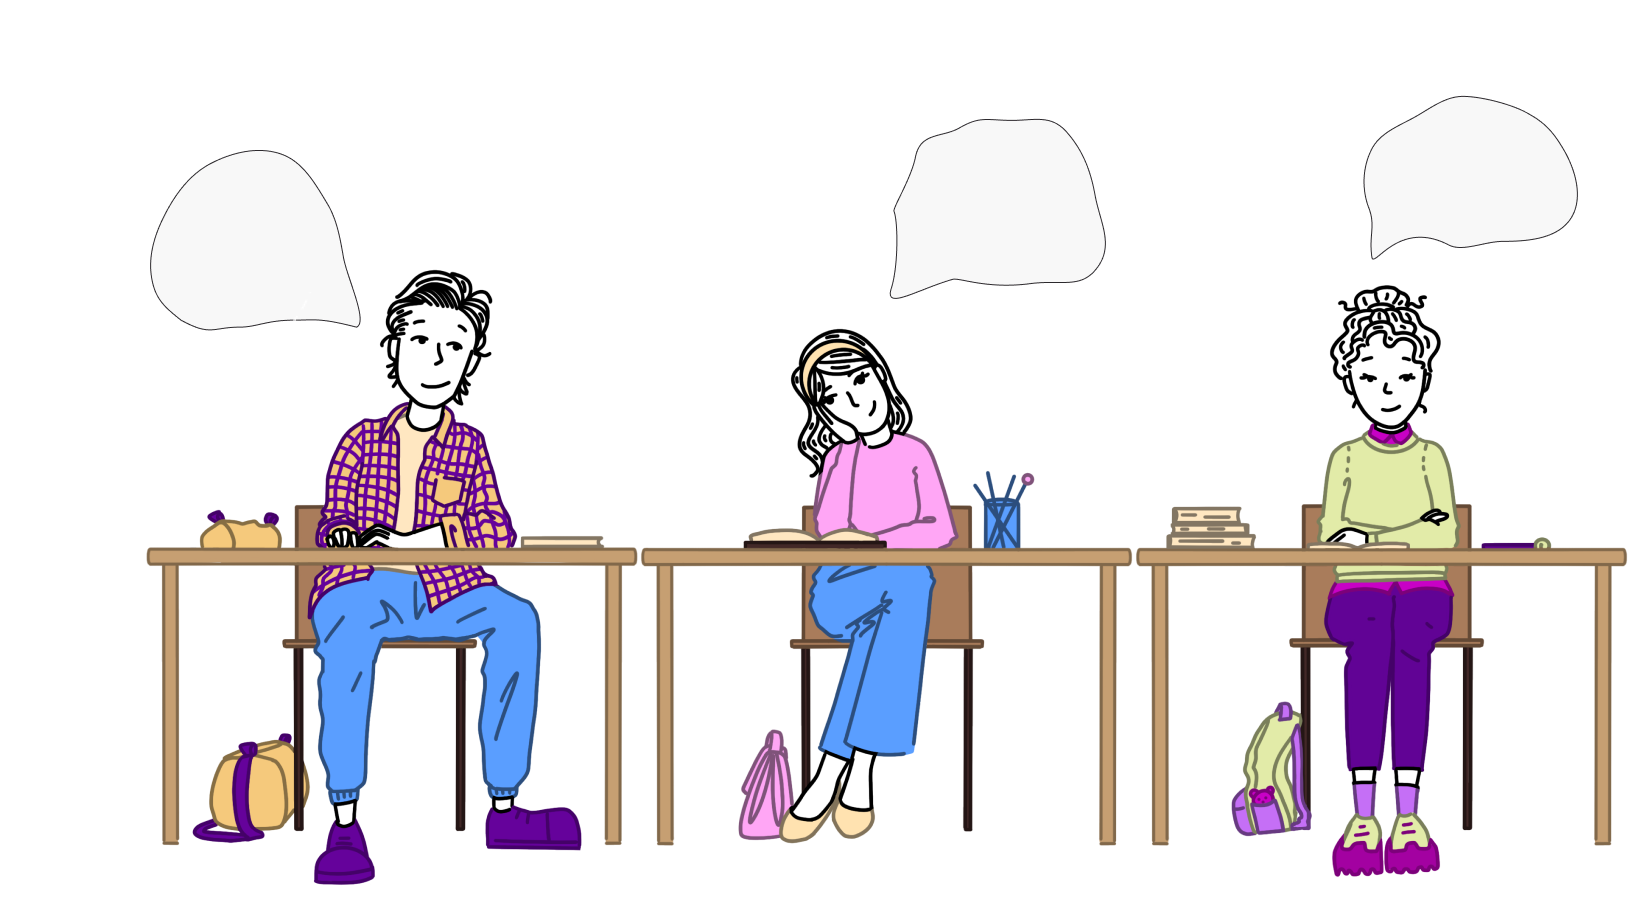
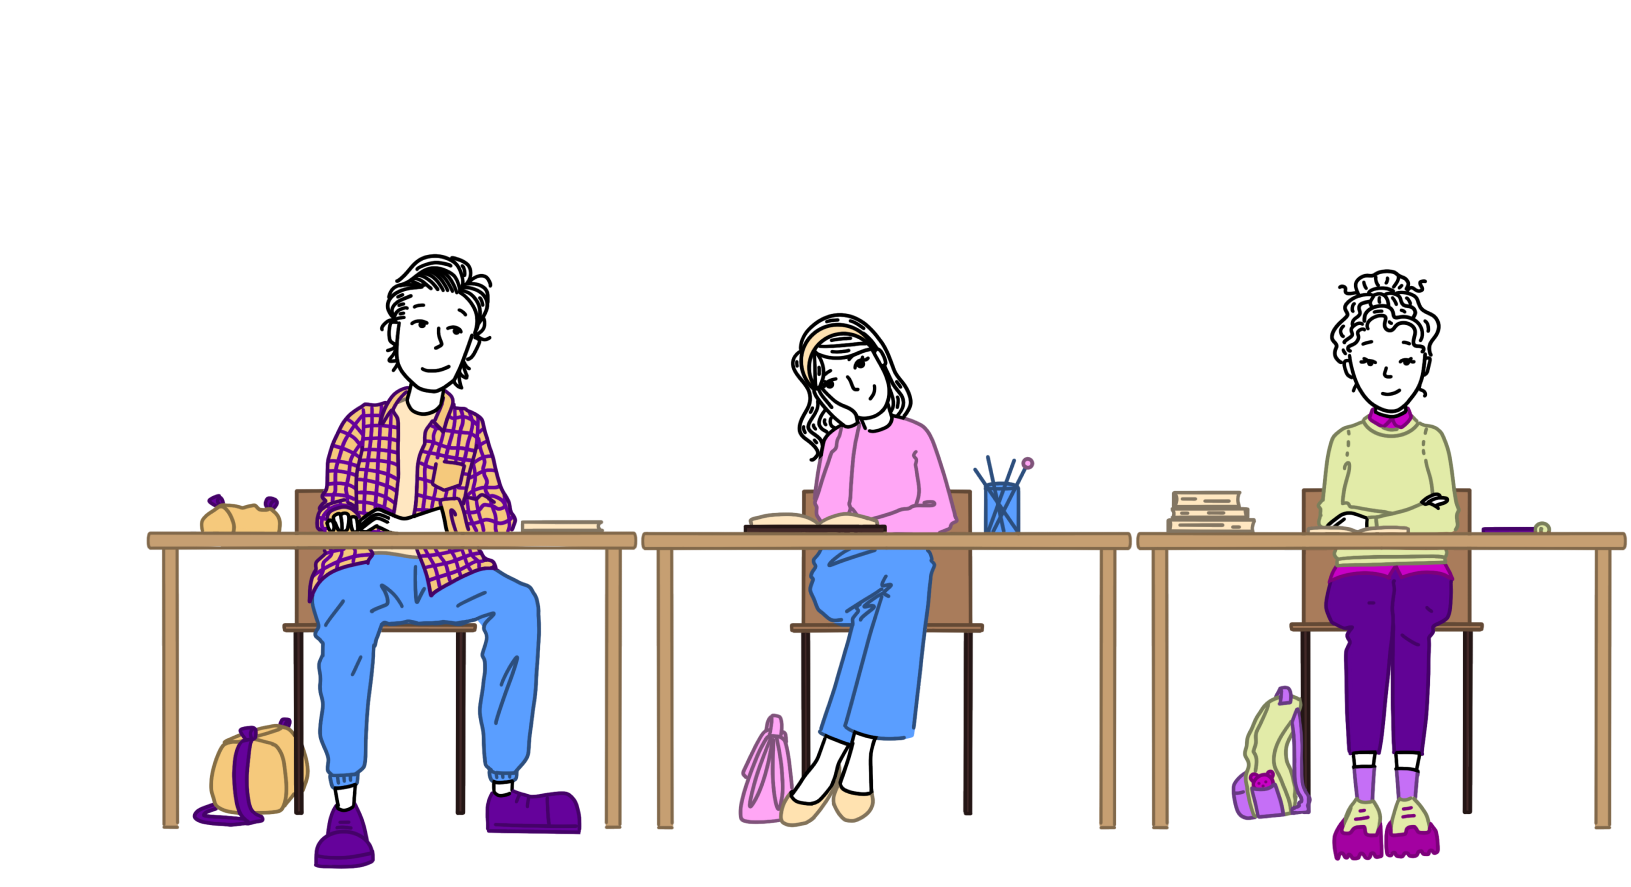
init

diff --git a/components/Courses/questions/questions.vue b/components/Courses/questions/questions.vue
@@ -4,9 +4,9 @@
       ._heading Отвечаем на вопросы
       ._slider
         ._slider-inner
-          ._text.-left(@click="setAnswer(course.answer_1)") {{ course.question_1 }}
-          ._text.-center(@click="setAnswer(course.answer_2)") {{ course.question_2 }}
-          ._text.-right(@click="setAnswer(course.answer_3)") {{ course.question_3 }}
+          ._text.-left.cloud1(@click="setAnswer(course.answer_1)") {{ course.question_1 }}
+          ._text.-center.cloud2(@click="setAnswer(course.answer_2)") {{ course.question_2 }}
+          ._text.-right.cloud3(@click="setAnswer(course.answer_3)") {{ course.question_3 }}
           img._image(src="./img/school.png", alt="")
     transition(name="modal")
       ._modal(v-if="showModal")

diff --git a/components/Courses/questions/questions.scss b/components/Courses/questions/questions.scss
@@ -229,3 +229,15 @@
     }
   }
 }
+
+.cloud1 {
+  background: url('../questions/img/cloud1.svg');
+}
+
+.cloud2 {
+  background: url('../questions/img/cloud2.svg');
+}
+
+.cloud3 {
+  background: url('../questions/img/cloud3.svg');
+}
